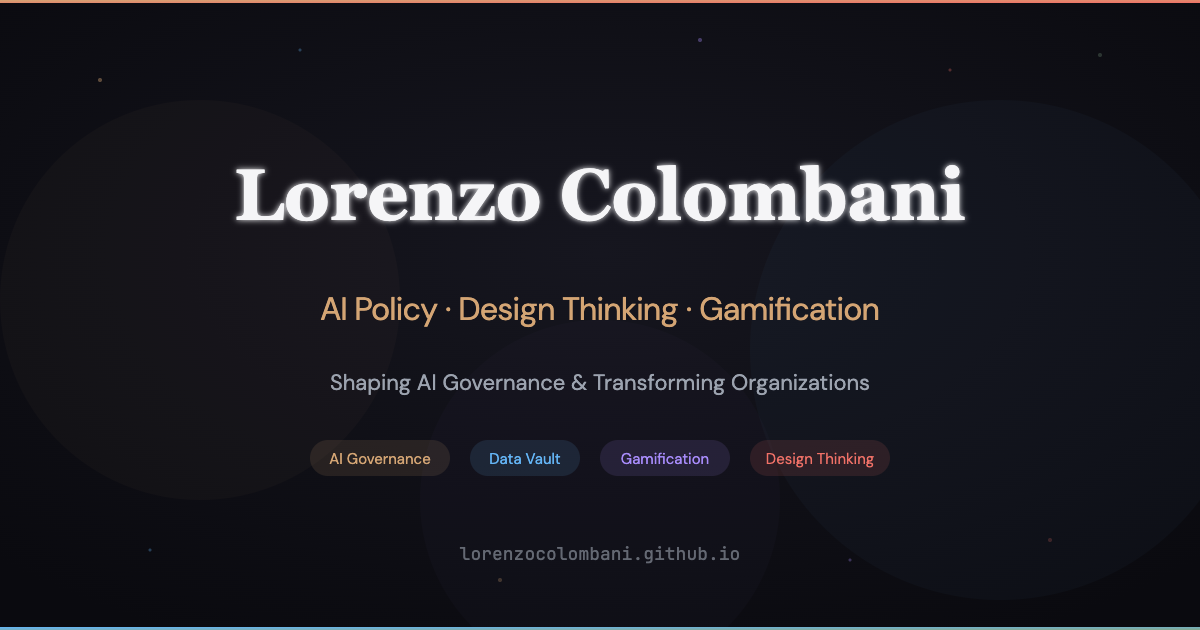
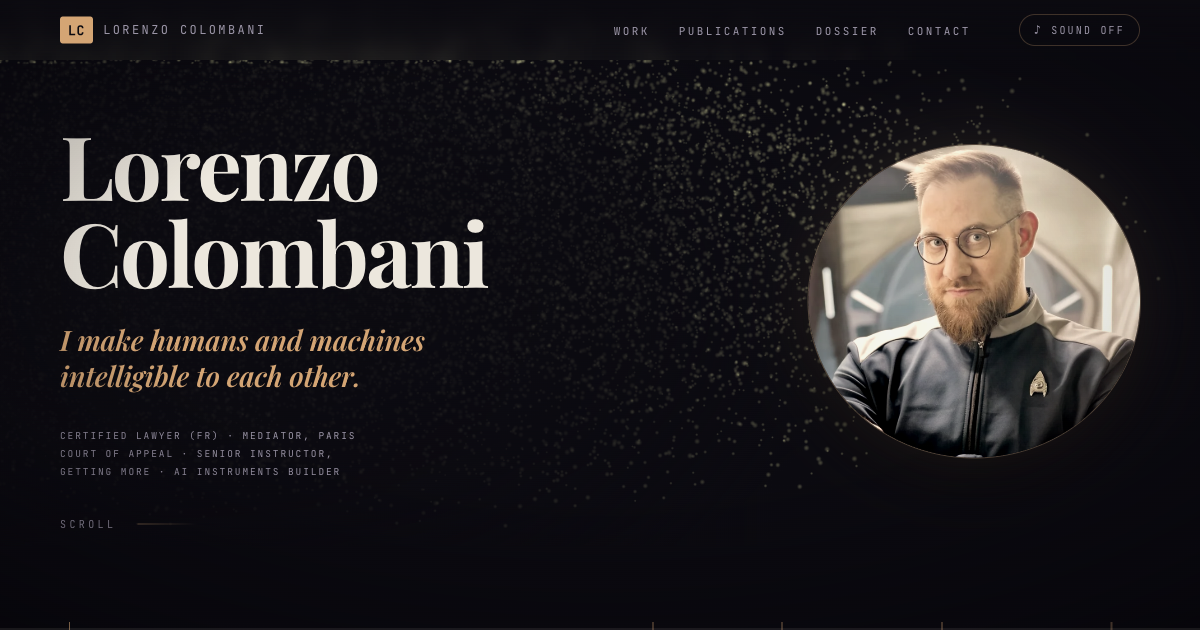
feat(redesign): meta + og reshoot + perf/a11y hardening
Fixes two defects the earlier passes missed because the instrument lied:

- HORIZONTAL SCROLL on narrow viewports. .hero-copy::before (the directional
  scrim) reaches -30% past its box; the page scrolled 110px right at 500px wide.
  body{overflow-x:hidden} did NOT stop it — the overflow propagates to the
  viewport and scrolls anyway. Fixed at source (.hero{overflow:hidden}) plus an
  overflow-x:clip backstop. A rect scan misses this entirely: pseudo-elements
  don't appear in querySelectorAll, so the only honest test is whether
  window.scrollX can actually move.
- CONTRAST: .footer-meta had opacity .75 on --dim = 4.29:1, under AA. Removed.
  Measured every other opacity-on-text case; the rest pass (4.85 to 8.86).

Lighthouse desktop AND mobile: a11y 100, best-practices 100, SEO 100, 0 failed.
LCP 89ms, CLS 0.00. Initial wire weight ~237KB against a ~350KB budget.
JSON-LD verified: only jobTitle + description differ from redesign-base, and
'licensed lawyer' is gone; sameAs/alumniOf/award byte-identical.

Claude-Session: https://claude.ai/code/session_01XaQ1k9UtU6SnErpBiN1227

diff --git a/assets/css/main.css b/assets/css/main.css
@@ -43,12 +43,18 @@
 
 /* ---------- 3. RESET ---------- */
 *,*::before,*::after{box-sizing:border-box}
-html{-webkit-text-size-adjust:100%}
+html{
+  -webkit-text-size-adjust:100%;
+  /* clip, not hidden: `hidden` here would make html a scroll container and
+     break position:sticky/svh behaviour. This is the backstop — the real fix
+     for any given overhang belongs on the element that causes it. */
+  overflow-x:clip;
+}
 body{
   margin:0;background:var(--stage);color:var(--ivory);
   font-family:var(--sans);font-size:clamp(15px,1.05vw,17px);line-height:1.62;
   -webkit-font-smoothing:antialiased;-moz-osx-font-smoothing:grayscale;
-  overflow-x:hidden;
+  overflow-x:clip;
 }
 img{max-width:100%;height:auto;display:block}
 button{font:inherit;color:inherit;background:none;border:0;cursor:pointer}
@@ -155,6 +161,10 @@ section{
   position:relative;min-height:100svh;max-width:none;
   display:flex;flex-direction:column;justify-content:center;
   padding:clamp(90px,14vh,150px) var(--gutter) clamp(70px,10vh,110px);
+  /* the scrim below reaches -30% past its box; without this it pushed the whole
+     page 110px wide at 500px (measured — body{overflow-x:hidden} does not stop
+     it, because the overflow propagates to the viewport and scrolls anyway) */
+  overflow:hidden;
 }
 #particle-canvas{
   position:absolute;inset:0;width:100%;height:100%;z-index:0;
@@ -519,7 +529,8 @@ footer{
   transition:color .26s var(--ease);
 }
 .footer-links a:hover{color:var(--gold)}
-.footer-meta{font:400 10px/1.6 var(--mono);letter-spacing:.12em;text-transform:uppercase;color:var(--dim);opacity:.75}
+/* no opacity here: .75 on --dim measured 4.29:1, under the AA floor */
+.footer-meta{font:400 10px/1.6 var(--mono);letter-spacing:.12em;text-transform:uppercase;color:var(--dim)}
 
 /* ---------- 12. TRANSPORT ---------- */
 #transport{
